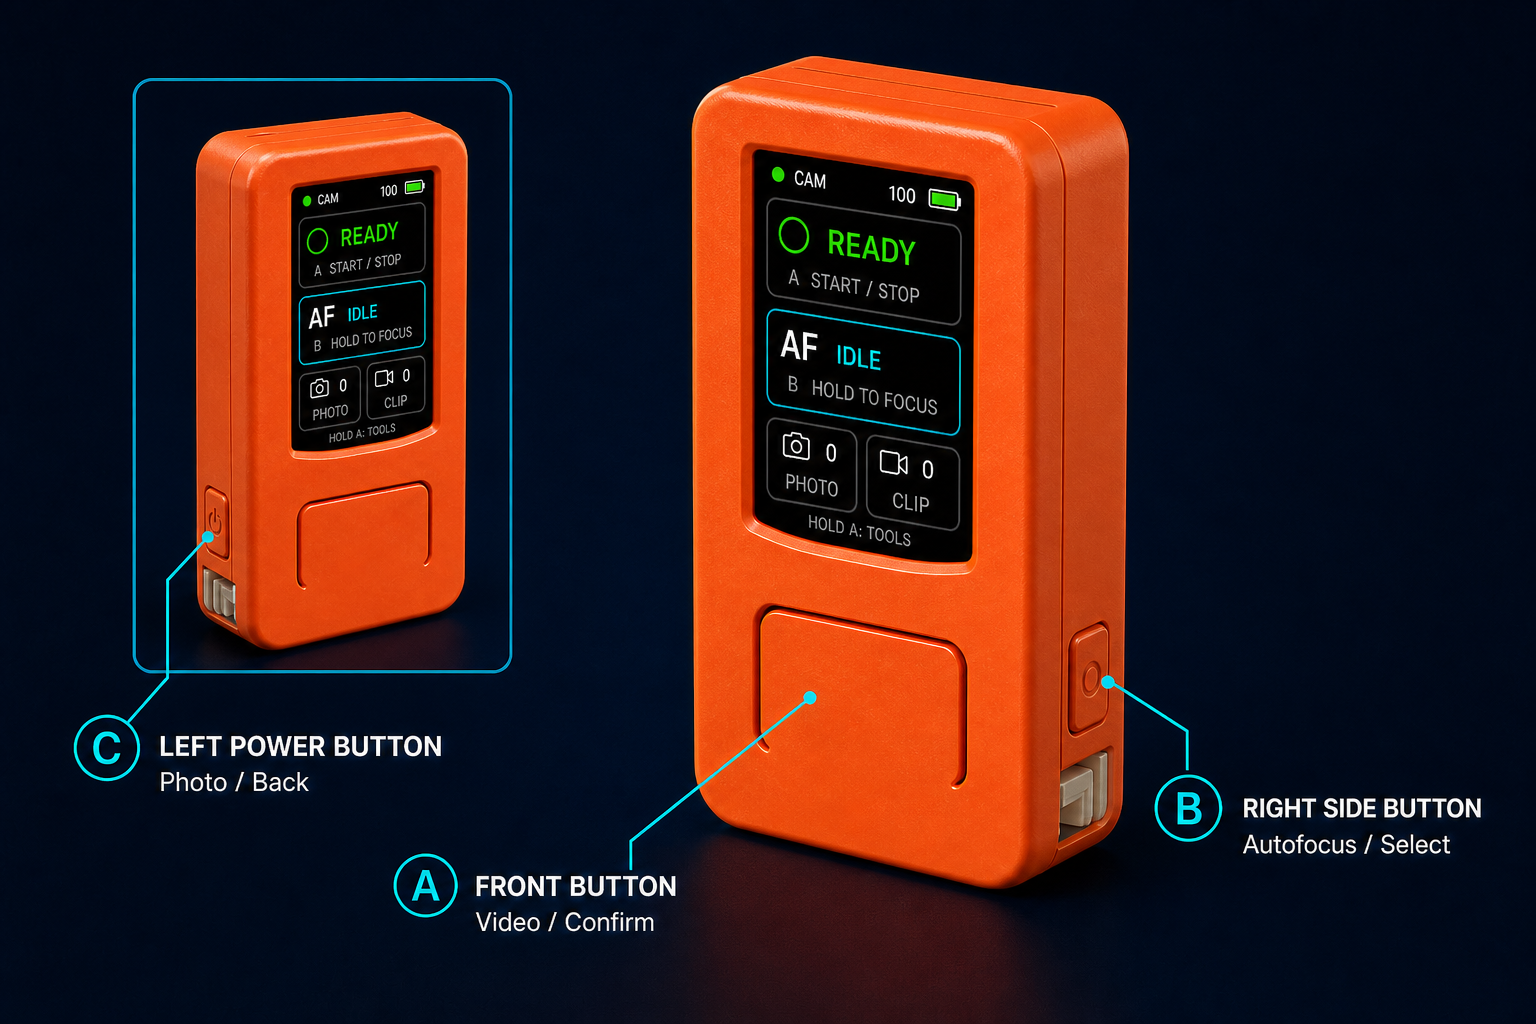
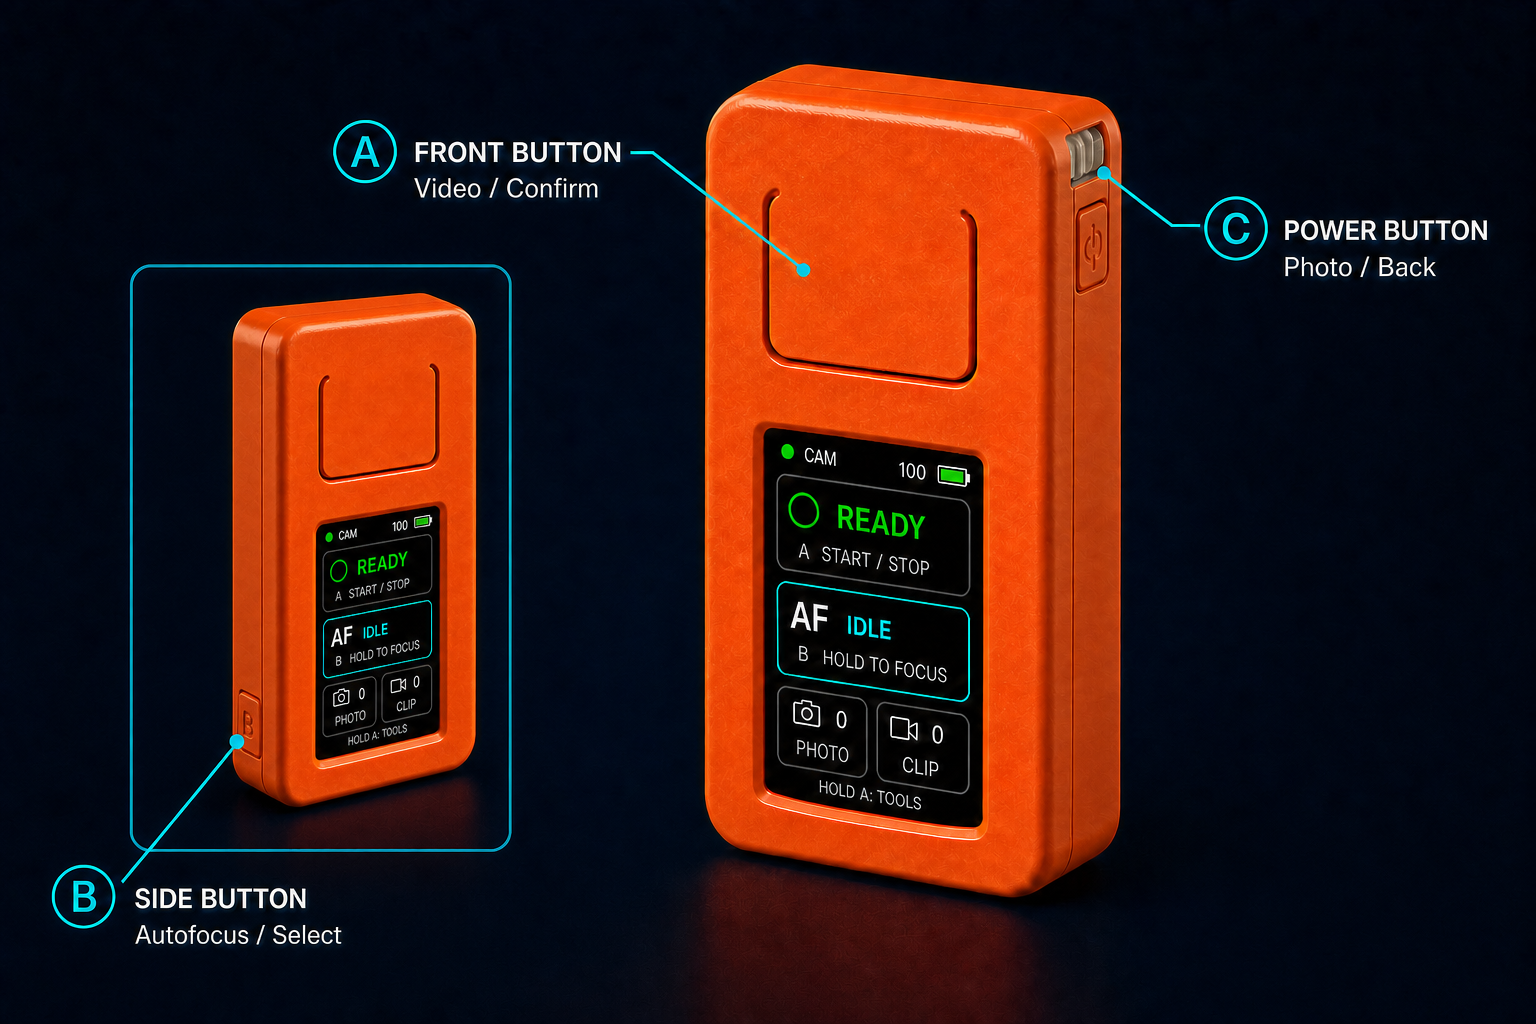
Correct remote orientation in hardware guide

diff --git a/README.md b/README.md
@@ -42,8 +42,8 @@ Tested: Sony α6400 / ILCE-6400 with firmware 2.00 or newer. Other models may us
 | Button | Main screen |
 |---|---|
 | Front button, short press | Video start/stop |
-| Right side button, hold | Autofocus |
-| Left power button, short press | Take photo |
+| Side button B, hold | Autofocus |
+| Power button C, short press | Take photo |
 | Front button, hold 1.2 seconds | Open Tools |
 | Power button, long press | Power off |
 
@@ -187,8 +187,8 @@ Getestet: Sony α6400 / ILCE-6400 mit Firmware 2.00 oder neuer. Weitere Modelle 
 | Taste | Hauptansicht |
 |---|---|
 | Große Fronttaste kurz | Video Start/Stopp |
-| Rechte Seitentaste halten | Autofokus |
-| Linke Power-Taste kurz | Foto |
+| Seitentaste B halten | Autofokus |
+| Power-Taste C kurz | Foto |
 | Fronttaste 1,2 Sekunden halten | Tools öffnen |
 | Power-Taste lang | Ausschalten |
 
